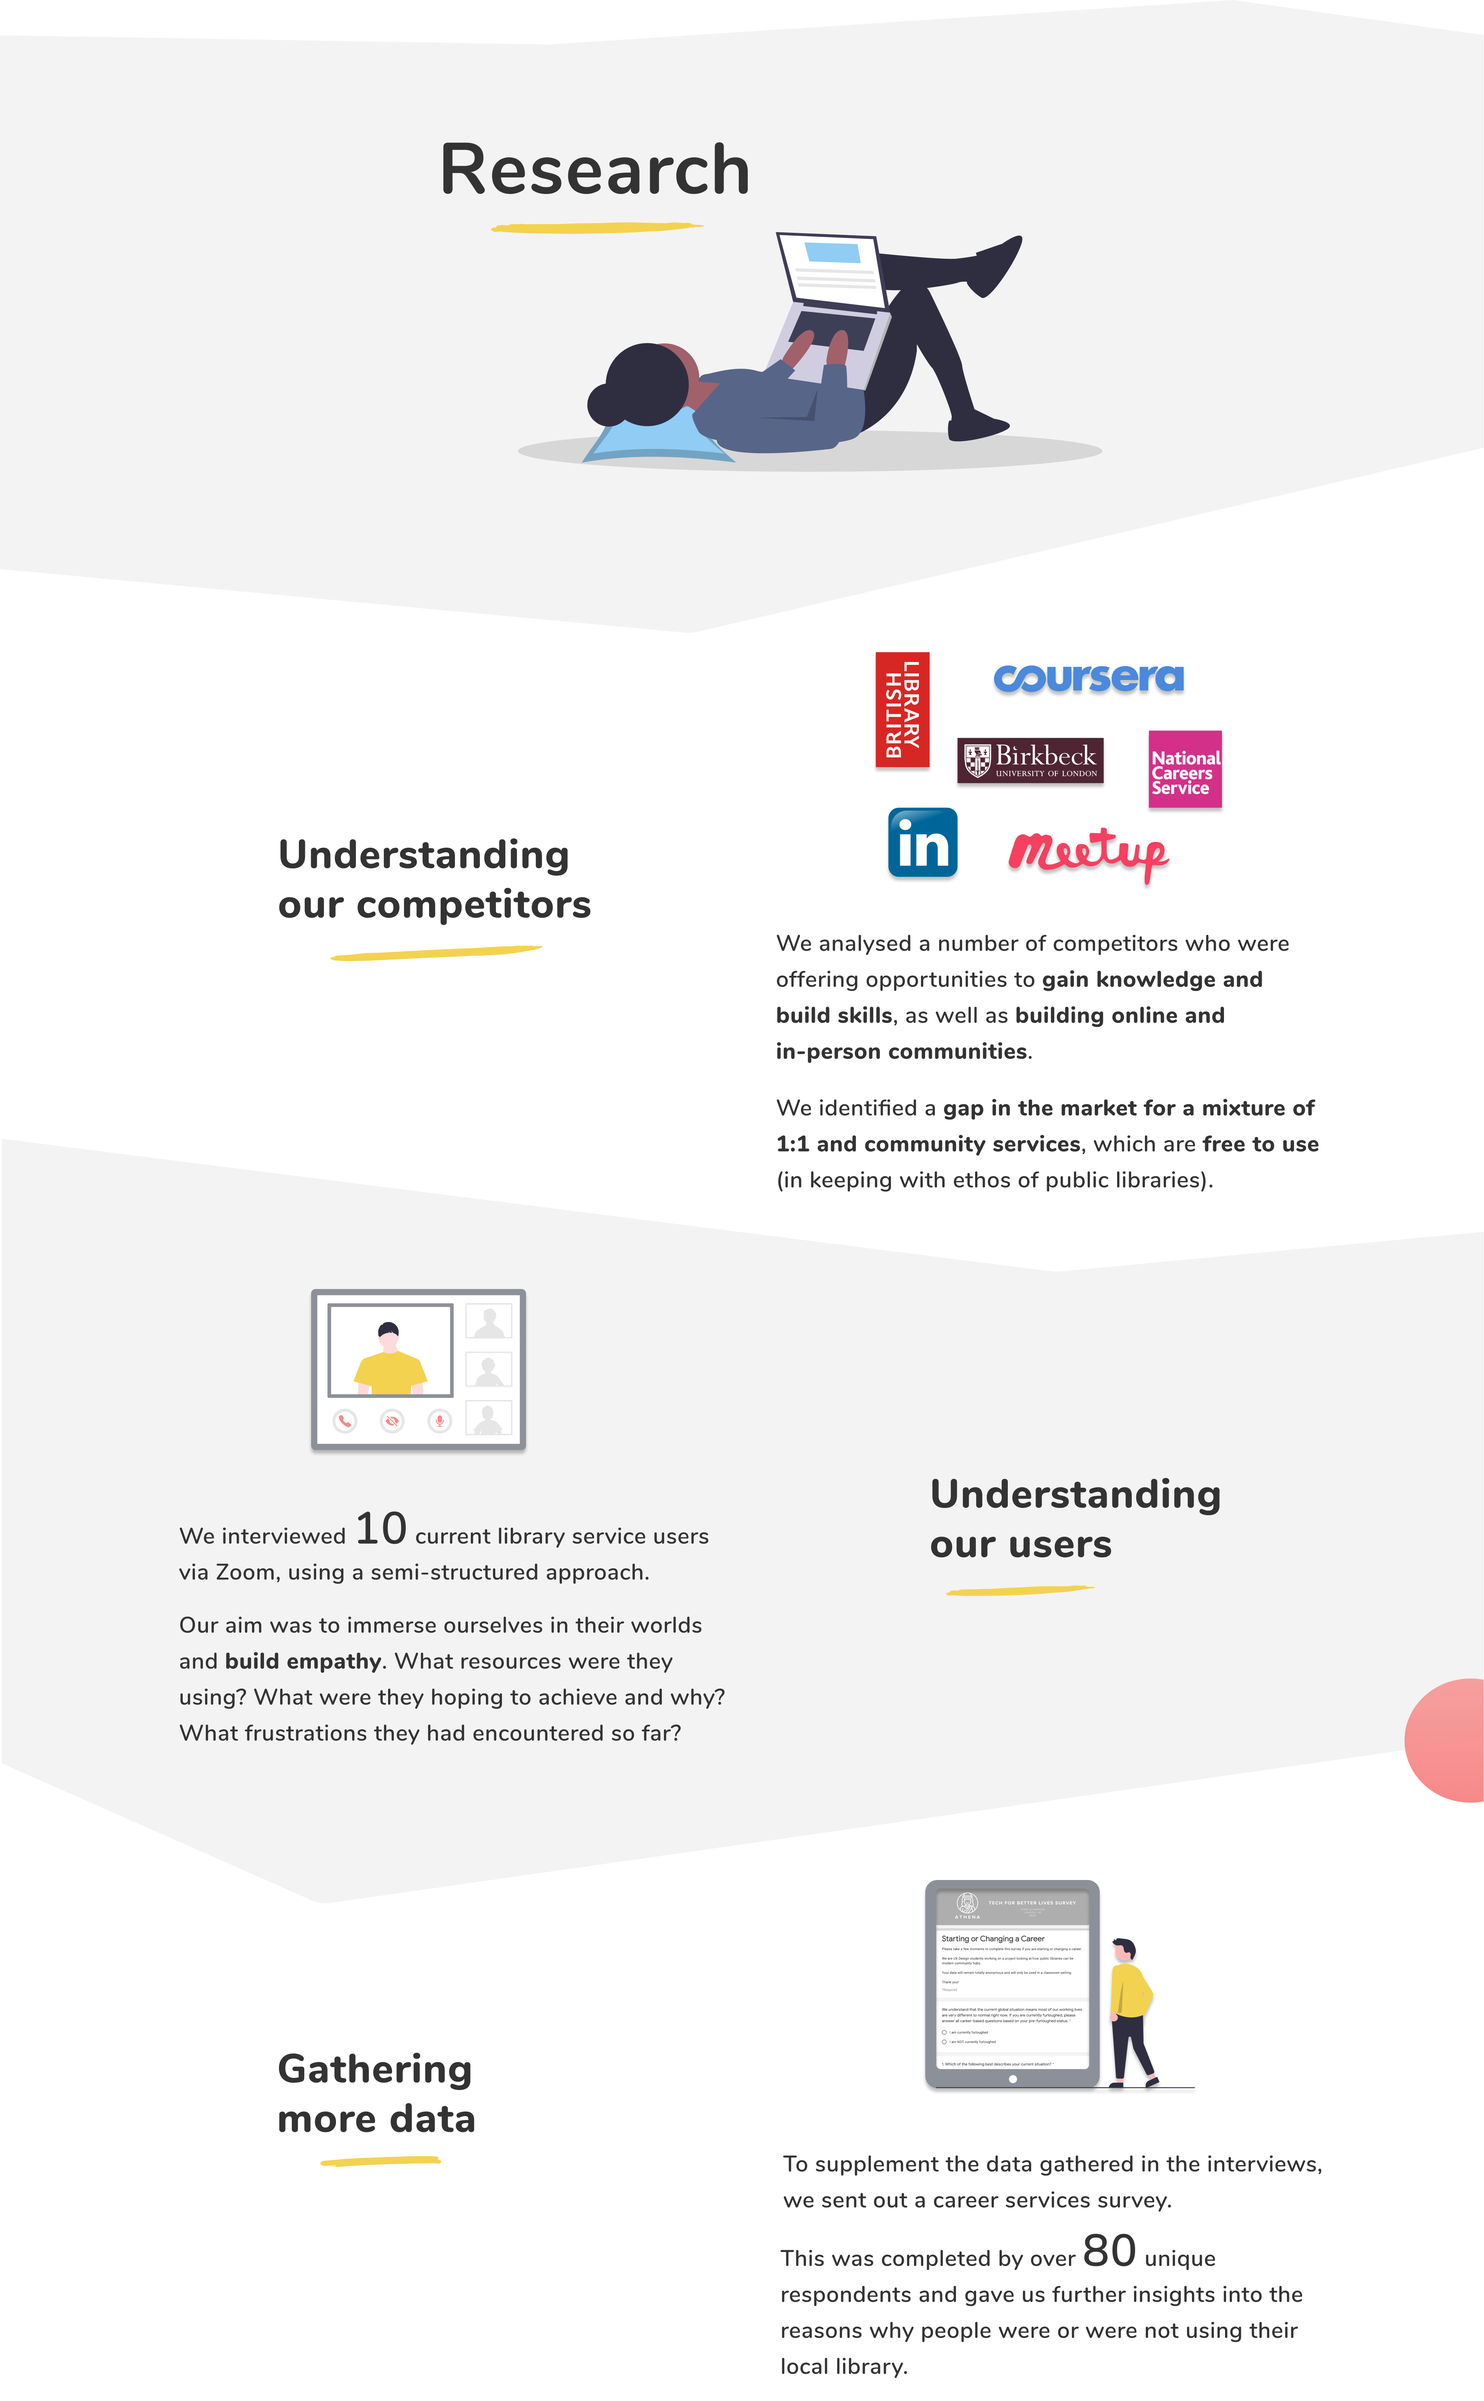
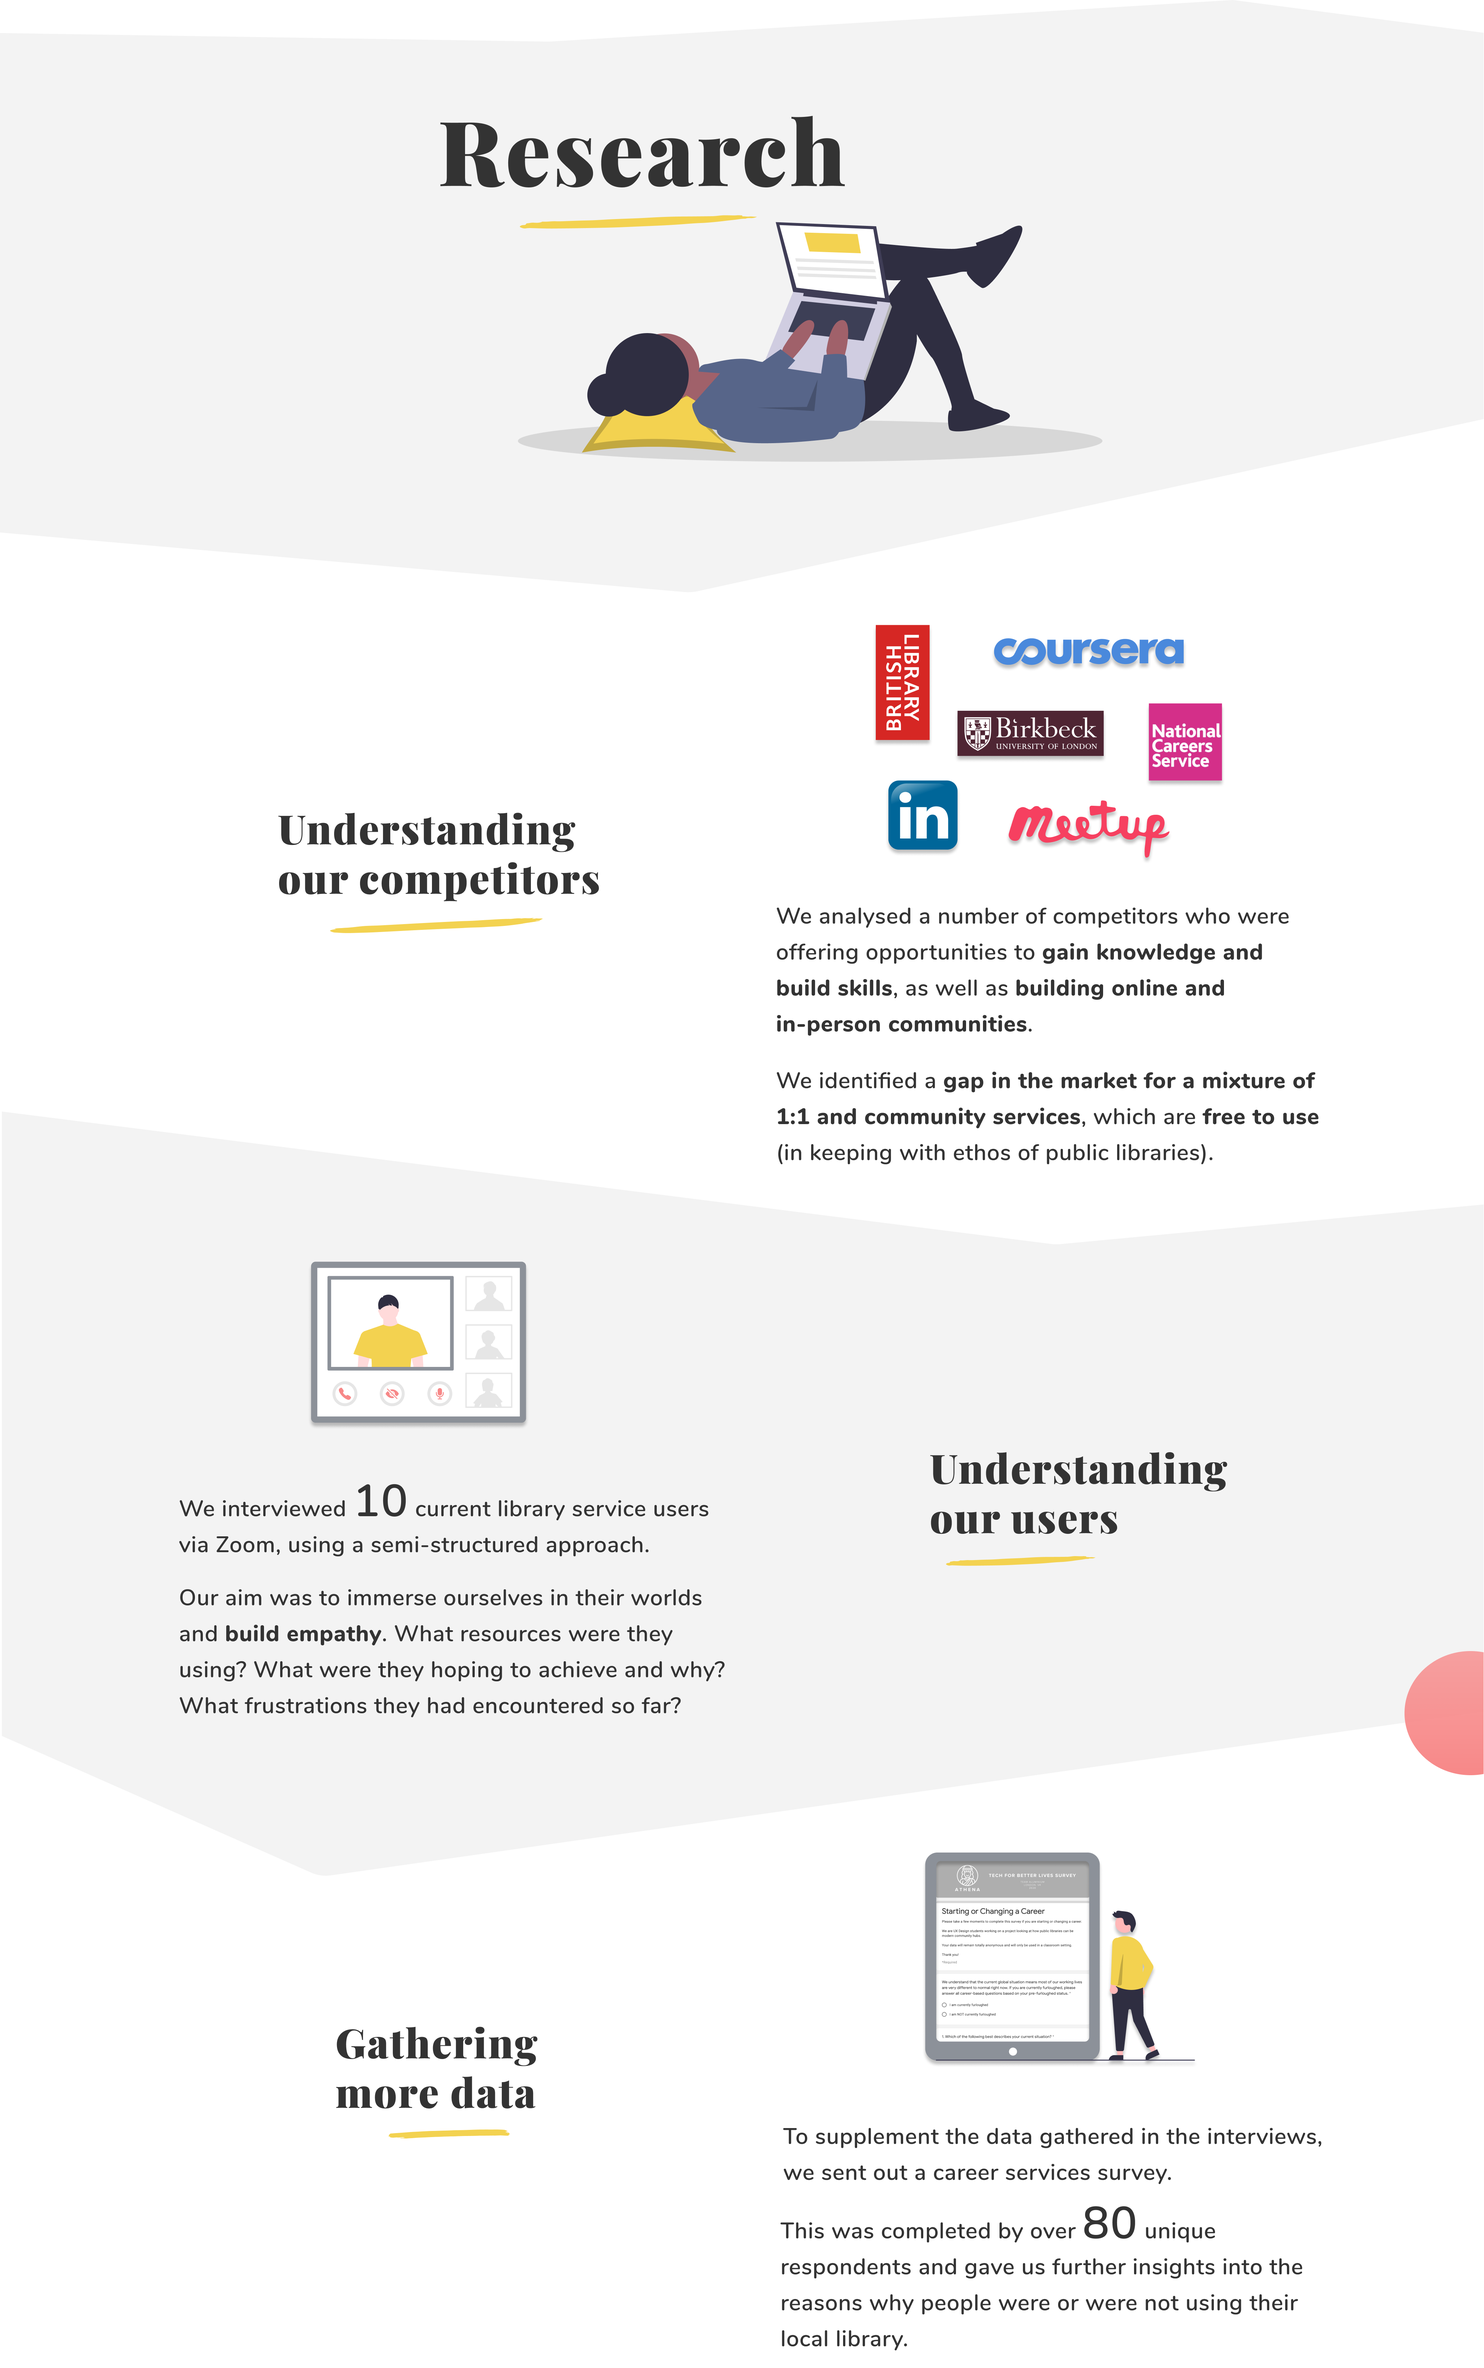
Styling finishes

diff --git a/src/components/About.jsx b/src/components/About.jsx
@@ -5,12 +5,20 @@ import { Typography } from "@material-ui/core";
 import KatyClips from "../assets/Katy_profile_clips.png";
 import { useWindowWidth } from "@react-hook/window-size";
 import KatyRotated from "../assets/Katy_profile_ROTATED.png";
+import Circle from "../assets/about_page_circle.png";
 
 const useStyles = makeStyles((theme) => ({
   text: {
     color: "#333333",
     fontFamily: "'Nunito', sans-serif",
     fontSize: "2.3em",
+  },
+  textPlayfair: {
+    fontFamily: "'Playfair Display', serif",
+    fontWeight: 800,
+    fontSize: 45,
+    color: "#333333",
+    letterSpacing: 0.3,
   },
   katy: {
     color: "#90ccf4",
@@ -27,13 +35,21 @@ const useStyles = makeStyles((theme) => ({
     fontWeight: 600,
   },
   aboutText: {
-    letterSpacing: "1px",
+    color: "#696969",
+    fontFamily: "'Nunito', sans-serif",
+    fontWeight: 600,
+    fontSize: 21,
+    letterSpacing: 0.2,
     paddingBottom: 20,
   },
   textConatiner: {
-    padding: "5px 80px 60px 20px",
+    padding: "5px 110px 0 20px",
     [theme.breakpoints.up("sm")]: {
-      paddingTop: "15%",
+      paddingTop: "16%",
+    },
+    [theme.breakpoints.down("sm")]: {
+      paddingTop: "16%",
+      paddingRight: 20,
     },
   },
   imageContainer: {
@@ -46,12 +62,19 @@ const useStyles = makeStyles((theme) => ({
   katyImage: {
     position: "absolute",
     left: 70,
-    top: -110,
   },
   katyRotated: {
     WebkitTransform: "rotate(270deg)",
     MozTransformStyle: "rotate(270deg)",
     transform: "rotate(90deg)",
+  },
+  aboutContain: {
+    [theme.breakpoints.down("xs")]: {
+      paddingTop: 100,
+    },
+  },
+  circle: {
+    width: 200,
   },
 }));
 
@@ -66,7 +89,7 @@ const About = ({ checkPage }) => {
 
   return (
     <React.Fragment>
-      <Grid container>
+      <Grid className={classes.aboutContain} container>
         <Grid className={classes.imageContainer} xs={12} sm={5} item>
           {windowXS ? (
             <img
@@ -87,37 +110,42 @@ const About = ({ checkPage }) => {
         <Grid className={classes.textConatiner} xs={12} sm={7} item>
           <Grid container>
             <Grid
-              style={{ paddingBottom: 25 }}
-              className={`${classes.text} ${classes.textExtraBold}`}
+              style={{ paddingBottom: 30 }}
+              className={classes.textPlayfair}
             >
               Hello there,&nbsp;
             </Grid>
-            <Grid className={`${classes.text} ${classes.katy}`}>I'm Katy</Grid>
-            <Grid className={`${classes.text} ${classes.period}`}>.</Grid>
+            <Grid className={`${classes.textPlayfair} ${classes.katy}`}>
+              I'm Katy
+            </Grid>
+            <Grid className={`${classes.textPlayfair} ${classes.period}`}>
+              .
+            </Grid>
           </Grid>
-          <Typography className={classes.aboutText} variant="h5">
+          <Typography className={classes.aboutText}>
             I’m a London-based UX designer with a creative eye and a passion for
             understanding what makes people tick.
           </Typography>
-          <Typography className={classes.aboutText} variant="h5">
+          <Typography className={classes.aboutText}>
             From Gestalt principles to what motivates our behaviour, psychology
             is an integral part of UX design. The good news for you is that I
             have a degree in psychology, a masters in social & cognitive
             neuroscience, and a journal publication pending (doing my best to
             impress you here - hope it’s working).
           </Typography>
-          <Typography className={classes.aboutText} variant="h5">
+          <Typography className={classes.aboutText}>
             I can always be relied on to sweat the small stuff (in a good way)
             and I love working as part of a team, solving problems and creating
             intuitive designs.
           </Typography>
-          <Typography variant="h5">
+          <Typography className={classes.aboutText}>
             Drop me a line at{" "}
             <a target="blank" href="mailto: katyromneyuk@gmail.com">
               katyromneyuk@gmail.com
             </a>
           </Typography>
         </Grid>
+        <img alt="decorative circle" src={Circle} className={classes.circle} />
       </Grid>
     </React.Fragment>
   );

diff --git a/src/components/Main.jsx b/src/components/Main.jsx
@@ -17,16 +17,21 @@ const useStyles = makeStyles((theme) => ({
   panel: {
     height: 400,
   },
-  text: {
-    color: "#333333",
-    fontFamily: "'Nunito Sans', sans-serif",
-    fontSize: "3em",
+  textPlayfair: {
+    fontFamily: "'Playfair Display', serif",
     fontWeight: 800,
+    spacing: "2%",
+    fontSize: 50,
+    color: "#333333",
+    letterSpacing: 0.3,
   },
   designerText: {
+    fontFamily: "'Nunito', sans-serif",
     color: "#333333",
-    fontFamily: "'Nunito Sans', sans-serif",
-    fontSize: "2.3em",
+    fontSize: 30,
+    fontWeight: 600,
+    letterSpacing: 0.5,
+    paddingTop: 10,
   },
   katy: {
     color: "#90ccf4",
@@ -41,8 +46,11 @@ const useStyles = makeStyles((theme) => ({
     },
   },
   linkText: {
+    fontFamily: "'Nunito', sans-serif",
     color: "#333333",
-    fontFamily: "'Nunito Sans', sans-serif",
+    fontSize: 30,
+    fontWeight: 600,
+    letterSpacing: 0.5,
     paddingTop: 20,
     paddingLeft: 10,
   },
@@ -103,8 +111,12 @@ const Panel = ({
             className={classes.transition}
             style={
               hovered
-                ? { paddingTop: topPad }
-                : { paddingTop: topPad, filter: "grayscale(100%)" }
+                ? { paddingTop: topPad, opacity: 1 }
+                : {
+                    paddingTop: topPad,
+                    filter: "grayscale(100%)",
+                    opacity: 0.5,
+                  }
             }
             src={image}
           />
@@ -123,17 +135,19 @@ const Main = ({ checkPage }) => {
   checkPage(false);
   return (
     <React.Fragment>
-      <main>
+      <main style={{ paddingTop: 150 }}>
         <Container style={{ paddingTop: 0 }} className={classes.panelGrid}>
           <Grid style={{ paddingBottom: 70 }} container>
-            <Grid className={`${classes.text} ${classes.hello}`}>
-              Hello there,&nbsp;
+            <Grid className={classes.textPlayfair}>Hello there,&nbsp;</Grid>
+            <Grid className={`${classes.textPlayfair} ${classes.katy}`}>
+              I'm Katy
             </Grid>
-            <Grid className={`${classes.text} ${classes.katy}`}>I'm Katy</Grid>
-            <Grid className={`${classes.text} ${classes.period}`}>.</Grid>
+            <Grid className={`${classes.textPlayfair} ${classes.period}`}>
+              .
+            </Grid>
             <Grid
               container
-              className={`${classes.designerText} ${classes.textSemiBold} ${classes.hello}`}
+              className={`${classes.designerText} ${classes.textSemiBold}`}
             >
               UX designer / psychologist / storyteller
             </Grid>
@@ -141,7 +155,7 @@ const Main = ({ checkPage }) => {
           <Grid container spacing={4}>
             <Panel
               backGroundColor={"#f78888"}
-              link="athena"
+              link="braniac"
               title="Braniac"
               underline={pink}
               image={braniac}
@@ -150,7 +164,7 @@ const Main = ({ checkPage }) => {
             />
             <Panel
               backGroundColor={"#f3d250"}
-              link="other1"
+              link="fixit"
               title="Fixit"
               underline={yellow}
               image={fixit}
@@ -159,7 +173,7 @@ const Main = ({ checkPage }) => {
             />
             <Panel
               backGroundColor={"#90ccf4"}
-              link="other2"
+              link="athena"
               title="Athena"
               underline={blue}
               image={athena}

diff --git a/src/components/Athena.jsx b/src/components/Athena.jsx
@@ -4,17 +4,30 @@ import Athena1 from "../assets/Athena_1.png";
 import Athena2 from "../assets/Athena_2.png";
 import Athena3 from "../assets/Athena_3.png";
 import Athena4 from "../assets/Athena_4.png";
+import { ReactComponent as Blue } from "../assets/Underline_blue.svg";
 import ScrollableAnchor, { goToAnchor } from "react-scrollable-anchor";
 
 const useStyles = makeStyles((theme) => ({
   text: {
     color: "#333333",
-    fontFamily: "'Nunito', sans-serif",
-    fontSize: "2rem",
+    fontFamily: "'Playfair Display', serif",
+    fontSize: "2.7rem",
+    fontWeight: 800,
     [theme.breakpoints.down("xs")]: {
       fontSize: "1.4rem",
     },
   },
+  subText: {
+    padding: "50px 0",
+    fontSize: "1.4rem",
+    color: "#333333",
+    fontFamily: "'Nunito', sans-serif",
+    [theme.breakpoints.down("xs")]: {
+      fontSize: ".8rem",
+      padding: "20px 0",
+    },
+  },
+
   textExtraBold: {
     fontWeight: 800,
   },
@@ -29,6 +42,8 @@ const useStyles = makeStyles((theme) => ({
   },
   buttonStyle: {
     backgroundColor: "#f78888",
+    fontSize: "1.4rem",
+    fontWeight: 600,
     margin: 20,
     padding: 10,
     width: "80%",
@@ -55,22 +70,26 @@ export default function Athena() {
                 <Grid xs={6}>
                   <Typography
                     variant="h3"
-                    style={{ textAlign: "center" }}
+                    style={{ textAlign: "center", paddingBottom: 10 }}
                     className={`${classes.text} ${classes.textExtraBold}`}
                   >
                     Finding your way around
                   </Typography>
+                  <Blue width="25%" />
                   <Typography
-                    style={{ padding: "50px 0", fontSize: "1.2rem" }}
-                    className={`${classes.text} ${classes.textSemiBold}`}
+                    className={`${classes.subText} ${classes.textSemiBold}`}
                     variant="h5"
                   >
                     This case study is divided into 3 sections. If you’re
                     interested in a particular part of the process, feel free to
                     jump right in!
                   </Typography>
-                  <Grid justify="center" container>
-                    <Grid item>
+                  <Grid
+                    style={{ paddingBottom: 20 }}
+                    justify="center"
+                    container
+                  >
+                    <Grid xs={12} md={4} item>
                       <Button
                         className={classes.buttonStyle}
                         variant="contained"
@@ -80,7 +99,7 @@ export default function Athena() {
                         Research
                       </Button>
                     </Grid>
-                    <Grid item>
+                    <Grid xs={12} md={4} item>
                       <Button
                         className={classes.buttonStyle}
                         variant="contained"
@@ -90,7 +109,7 @@ export default function Athena() {
                         Discoveries
                       </Button>
                     </Grid>
-                    <Grid item>
+                    <Grid xs={12} md={4} item>
                       <Button
                         className={classes.buttonStyle}
                         variant="contained"

diff --git a/src/App.js b/src/App.js
@@ -16,6 +16,7 @@ import Athena from "./components/Athena";
 // import Fixit from "./components/Fixit";
 import About from "./components/About";
 import { ReactComponent as Yellow } from "./assets/Underline_yellow.svg";
+import PageNotReady from "./components/PageNotReady";
 
 const useStyles = makeStyles((theme) => ({
   root: {
@@ -100,7 +101,7 @@ export default function App(props) {
       <CssBaseline />
       <Router>
         <AppBar
-          position="relative"
+          position="absolute"
           classes={{
             colorPrimary: classes.appBarColor,
             root: classes.paperElevation,
@@ -162,13 +163,13 @@ export default function App(props) {
             <Route path="/about">
               <About checkPage={checkPage} />
             </Route>
+            <Route path="/braniac">
+              <PageNotReady />
+            </Route>
+            <Route path="/fixit">
+              <PageNotReady />
+            </Route>
             <Route path="/athena">
-              <Athena />
-            </Route>
-            <Route path="/other1">
-              <Athena />
-            </Route>
-            <Route path="/other2">
               <Athena />
             </Route>
             <Route path="/">

diff --git a/src/components/PageNotReady.jsx b/src/components/PageNotReady.jsx
@@ -1,0 +1,16 @@
+import React from "react";
+import PageNotReadyImage from "../assets/page_not_ready.jpeg";
+
+export default function PageNotReady() {
+  return (
+    <React.Fragment>
+      <main>
+        <div style={{ paddingTop: 100, backgroundColor: "#ffffff" }}>
+          <div style={{ textAlign: "center", width: "100%" }}>
+            <img alt="" width="75%" src={PageNotReadyImage} />
+          </div>
+        </div>
+      </main>
+    </React.Fragment>
+  );
+}

diff --git a/public/index.html b/public/index.html
@@ -21,6 +21,11 @@
       rel="stylesheet"
     />
 
+    <link
+      href="https://fonts.googleapis.com/css2?family=Playfair+Display:wght@800&display=swap"
+      rel="stylesheet"
+    />
+
     <!--
       Notice the use of %PUBLIC_URL% in the tags above.
       It will be replaced with the URL of the `public` folder during the build.
